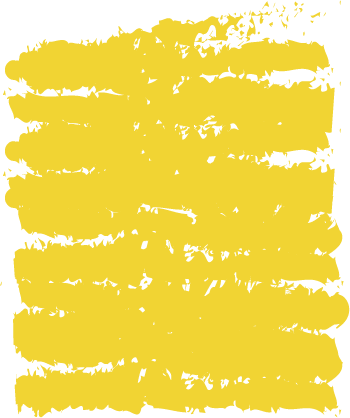
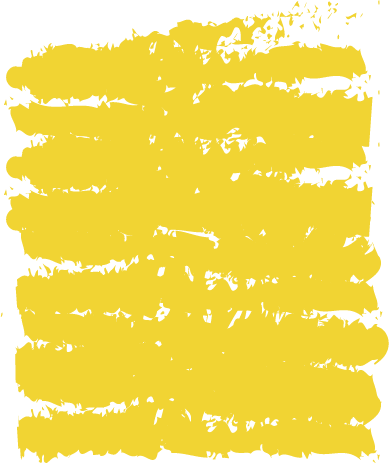
Add files via upload

diff --git a/index.html b/index.html
@@ -39,17 +39,18 @@
         <header>
           <h1>Destaques</h1>      
         </header>
-        <div>
+        <div class="img">
+          <!--<img src="img/lata.png">-->
           <a href="#"><img src="img/img1.jpeg"></a>
         </div>
       </article>
-      <aside>
+      <!--<aside>
         <h2>Informações</h2>
         <ul class="list-unstyled">
           <li class="text-secondary text-monospace"><strong>- Atendemos em toda a Orizona Goiás, inclusise em Zona Rural.</strong><br></li>
           <li class="text-secondary text-monospace"><strong>- Orçamento sem compromisso</strong><br></li>
         </ul>
-      </aside>
+      </aside>-->
     </div>
     <footer id="rodape">
       <p class="text-center">Todos os direitos reservados &copy; 2021</p>

diff --git a/css/estilo.css b/css/estilo.css
@@ -36,22 +36,20 @@
     margin-top: 140px;
   }
   #conteudo{
-    width: 97%;
+    width: 95%;
   }
-  /*article#principal{
-    /*background: #FACC2E;
+  .img{
     background: url(../img/lata.png) no-repeat top center;
+    z-index: -1;
     width: 100%;
-    height: 710px;
-    padding: 0 40px;
-    padding-top: 100px;
-  }*/
-  article#principal img{
-    background: url(../img/lata.png) no-repeat top center;
+    height: 463px;
+    margin: 0 auto;
     box-sizing: border-box;
-    padding: 80px 30px 60px 30px;
-    width: 75%;
-    margin: 0 12.5%;
+    padding: 24% 23% 20% 23%;
+  }
+  article#principal img{
+    width: 100%;
+    height: 100%;
   }
   #conteudo article#principal h1{
     font-size: 27px;
